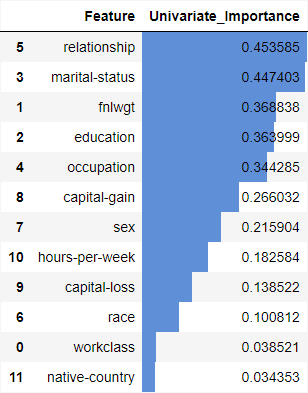
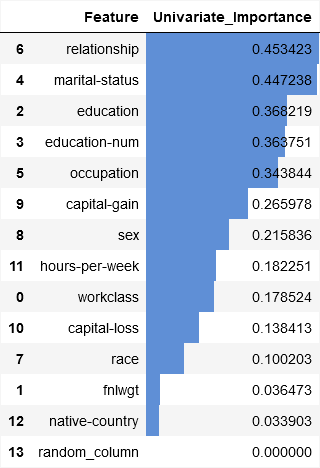
HDBSCAN

diff --git a/scorescanner/preprocessing/_data.py b/scorescanner/preprocessing/_data.py
@@ -17,6 +17,7 @@ from optbinning import (
     MulticlassOptimalBinning,
     OptimalBinning,
 )
+from hdbscan import HDBSCAN
 from sklearn.preprocessing import OneHotEncoder, LabelEncoder
 from tqdm import tqdm
 
@@ -217,6 +218,7 @@ class multioptbinning:
         min_event_rate_diff=0.02,
         outlier_value=-999.001,
         additional_optb_params=None,
+        hdbscan_params=None,
     ):
         """
         Initializes the multioptbinning class.
@@ -256,6 +258,8 @@ class multioptbinning:
 
         additional_optb_params (dict, optional): Additional parameters for OptimalBinning. For a full list of parameters, see the OptimalBinning documentation at [https://gnpalencia.org/optbinning/].
 
+        hdbscan_params (dict, optional): parameters for hdbscan clustering algorithm. For a full list of parameters, see the HDBSCAN documentation at [https://scikit-learn.org/stable/modules/generated/sklearn.cluster.HDBSCAN.html]).
+
         outlier_value (float, optional (default=-999.001)): The value of outliers.
         """
         # Initialization of class attributes
@@ -270,6 +274,7 @@ class multioptbinning:
         self.monotonic_trend = monotonic_trend
         self.min_event_rate_diff = min_event_rate_diff
         self.additional_optb_params = additional_optb_params or {}
+        self.hdbscan_params = hdbscan_params or {"min_samples": 2}
         self.outlier_value = outlier_value
         self.optb_models = {}
 
@@ -284,6 +289,10 @@ class multioptbinning:
         le = LabelEncoder()
         # Encoding the target
         encoded_target = le.fit_transform(df[self.target].values)
+
+        # Seting default min_cluster_size if not provided in hdbscan_params
+        default_min_cluster_size = max(int(0.05 * len(df)), 2)  
+        self.hdbscan_params.setdefault('min_cluster_size', default_min_cluster_size)
 
         for variable in tqdm(self.variables, desc="Fitting OptimalBinning Models"):
             # Creating a dictionary of parameters for initializing the OptimalBinning object
@@ -324,12 +333,20 @@ class multioptbinning:
                 raise ValueError(
                     "Unsupported target_dtype: {}".format(self.target_dtype)
                 )
-            # Encoding a target
-
+            
             # Fiting the OptimalBinning model
             optb.fit(df[variable].values, encoded_target)
-            # Storing the fitted OptimalBinning model in a dictionary
-            self.optb_models[variable] = optb
+            # Check if OptimalBinning found at least one split (meaning at least two bins)
+            if len(optb.splits) >= 1:
+                self.optb_models[variable] = ('optimalbinning', optb)
+            else:
+                # If fewer than two bins are found, we apply HBDSCAN
+                hdbscan_model = HDBSCAN(**self.hdbscan_params).fit(df[variable].values.reshape(-1, 1))
+                # Storing the HDBSCAN model instead of the OptimalBinning model
+                self.optb_models[variable] = ('HDBSCAN', hdbscan_model)
+                print(f"HDBSCAN was applied to the variable '{variable}' due to the lack of a significant relationship with the target variable.")
+
+    
 
     def transform(self, df):
         """
@@ -354,24 +371,32 @@ class multioptbinning:
         # Transforming each variable
         for variable in [v for v in self.variables if v not in binary_columns]:
             if variable in self.optb_models:
-                # Check the number of bins created for the variable
-                n_bins = len(self.optb_models[variable].splits) + 1
-                if n_bins > 1:
-                    # using the standard transformation if more than one bin
-                    transformed_df[variable] = self.optb_models[variable].transform(
-                        transformed_df[variable].values, metric="bins"
-                    )
-                else:
-                    # If only one bin, manually split the variable into two uniform intervals using quantiles
-                    quantiles = np.nanpercentile(
-                        transformed_df[variable], np.linspace(0, 100, 5)
-                    )
-                    transformed_df[variable] = pd.cut(
-                        transformed_df[variable],
-                        bins=quantiles,
-                        include_lowest=True,
-                        duplicates="drop",
-                    )
+                model_type, model = self.optb_models[variable]
+
+                # Check the type of the model and perform corresponding actions
+                if model_type == 'optimalbinning':
+                        # Using the standard transformation if more than one bin
+                        transformed_df[variable] = model.transform(
+                            transformed_df[variable].values, metric="bins"
+                        )
+                elif model_type == 'HDBSCAN':
+                    # Applying HDBSCAN labels
+                    # Creating mask for missing values in the dataset
+                    nan_mask = transformed_df[variable].isna()
+                    # Predicting labels using the HDBSCAN model
+                    labels = model.labels_
+                    # Customizing labels
+                    # Grouping data by the cluster labels
+                    unique_values = df[variable].groupby(labels).apply(lambda x: [-1] if x.name == -1 else x.unique())
+                    # Characterizing clusters with intervals for varied values or unique values for constant clusters
+                    custom_labels = unique_values.apply(lambda x: 'outliers' if -1 in x else f"[{x.min()},{x.max()}]" if x.min() != x.max() else f"{x.max()}")
+                   
+                    # Maping customized labels to the transformed data
+                    label_map = {idx: label for idx, label in zip(unique_values.index, custom_labels)}
+                    transformed_df[variable] = [label_map[label] for label in labels]
+                    
+                    # Replacing nan values with 'missing'
+                    transformed_df.loc[nan_mask, variable] = 'missing'
             else:
                 raise ValueError(f"Model not fitted for variable: {variable}")
         # Returns the DataFrame with the transformed variables.

diff --git a/README.md b/README.md
@@ -8,18 +8,18 @@
 
 **Why use ScoreScanner?**
 
-- **Efficiency:** Streamlines the exploration process, saving valuable time and effort ⏱.
-- **Clarity:** Provides clear and quantifiable insights into the relationships between features and the target variable 📊.
+- **Efficiency:** Streamlines the exploration process, saving valuable time and effort ⏱
+- **Clarity:** Provides clear and quantifiable insights into the relationships between features and the target variable 
 
 **When to use ScoreScanner?**
 
 when you aim to:
 
-- Quickly identify the most significant features and gain a better understanding of their importance using statistical indicators.
-- Give meaning to missing values and outliers.
-- Perform optimal feature selection for interpretation.
-- Create an interpretable initial model.
-- Simplify communication with business teams 📢.
+- Quickly identify the most significant features and gain a better understanding of their importance using statistical indicators
+- Give meaning to missing values and outliers
+- Perform optimal feature selection for interpretation
+- Create an interpretable initial model
+- Simplify communication with business teams 📢
 
 ## Table of Contents
 - [Key Features](#key-features)
@@ -30,7 +30,7 @@ when you aim to:
 
 ### Preprocessing
 - **Outlier Identification & Replacement**: Automatically detecting and replacing outliers.
-- **Supervised Binning of Continuous Variables**: Converting continuous variables into categorical ones using supervised binning techniques for better interpretability.
+- **Supervised Binning of Continuous Variables**: Converting continuous variables into categorical ones using supervised binning techniques for better interpretability. If no significant relationship with the target is detected, an unsupervised clustering algorithm, HDBSCAN, is used.
 
 ### Feature Analysis
 - **Univariate Feature Importance**: Identifying the most impactful features on the target variable using statistical measures.
@@ -58,14 +58,25 @@ To start, let's import the "Adult" dataset from UCI, aimed at classifying indivi
 
 ```python
 
-import os
-import pandas as pd
-import scorescanner.data
+# Importing libraries
+import os  
+import pandas as pd  
+import numpy as np  
+import scorescanner.data  
 
+# Loading the adult dataset 
 adult_data = pd.read_csv(
     os.path.join(os.path.dirname(scorescanner.data.__file__), "adult_data.csv"),
-    low_memory=False,
+    low_memory=False,  
 )
+
+# Setting a seed 
+np.random.seed(42)
+
+# Adding a random column from discrete uniform distribution 
+adult_data['random_column'] = np.random.randint(0, 100, size=len(adult_data))  
+
+# Displaying first rows
 adult_data.head()
 
 
@@ -82,12 +93,11 @@ Now, we propose two preprocessing steps:
 
 ```python
 
-#Target
 # Target
 target = "income"
 # Numerical features
 num_features = [
-    col for col in adult_data.columns if adult_data[col].dtypes in ['int64'] and col not in target
+     col for col in adult_data.select_dtypes(include=np.number).columns.tolist() if adult_data[col].nunique() > 2
 ]
 # Value to replace outliers
 outlier_value = -999.001
@@ -258,6 +268,8 @@ plot_corr_matrix(corr_matrix_clustered)
 
 ```
 
+![corr DataFrame](https://github.com/Imadberkani/scorescanner/blob/master/scorescanner/_images/corr.png)
+
 ### Logistic Regression
 
 ##### Data Preparation
@@ -268,7 +280,7 @@ Now, we are going to use the `logisticregressionpreparer` class to prepare our d
 - Additionally, if we wish, we can define for each variable which category to remove, which will indirectly set our reference category. Otherwise, a category will be chosen randomly.
 
 ```python
-from scorescanner.preprocessing import logisticregressionpreparer
+from scorescanner.preprocessing import refcatencoder
 ```
 
 ```python
@@ -282,7 +294,7 @@ column_dict = {
     
 }
 # Initializing the DataPreparerForLogisticRegression
-data_preparer = logisticregressionpreparer(
+data_preparer = refcatencoder(
     columns=[col for col in features], column_dict=column_dict
 )
 # Applying the data preparation steps
@@ -369,6 +381,8 @@ from sklearn.linear_model import LogisticRegression
 logreg = LogisticRegression(solver="newton-cholesky", random_state=42)
 logreg.fit(X_train, y_train)
 ```
+
+![fit](https://github.com/Imadberkani/scorescanner/blob/master/scorescanner/_images/logisticregression_sk.png)
 
 ##### Logistic Regression Report 
 
